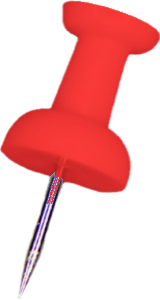
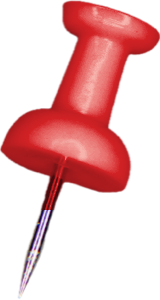
fix(style): Añadir breathes as a scrolling page; the red pin keeps its shading; recuerdos are a red circled count
- The add page scrolls as a whole with more room between sections and a taller map; Publicar sticks to
  the bottom of the screen.
- The pin's head is recolored by its own lightness, edges included, so it keeps its gloss and no gray rim.
- On your profile, new recuerdos are their count circled in red pen on a print's corner, clear of the name.

Changed region(s): [[0.0, 0.0, 1.0, 0.72]]

diff --git a/frontend/app/profile/[username]/profile-view.tsx b/frontend/app/profile/[username]/profile-view.tsx
@@ -17,7 +17,6 @@ import { createClient } from '@/lib/supabase/client'
 import { toAnimita, TABLES } from '@/lib/animitas'
 import type { Animita } from '@/types/animita'
 import { useNewRecuerdos } from '@/hooks/use-new-recuerdos'
-import { storyExcerpt } from '@/lib/story'
 import { isDemo } from '@/lib/demo/flag'
 import { uploadAvatar } from '@/lib/photos'
 
@@ -143,22 +142,21 @@ export function ProfileView({ profile }: { profile: ProfileData }) {
             {[1, 2, 3].map(i => <DevelopingPhoto key={i} />)}
           </div>
         ) : animitas.length > 0 ? (
-          <div className="grid grid-cols-2 gap-x-6 gap-y-12 sm:grid-cols-3">
+          <div className="grid grid-cols-2 gap-x-6 gap-y-8 sm:grid-cols-3">
             {animitas.map(a => {
               const left = isOwnProfile ? recuerdos.filter(r => r.slug === a.slug) : []
               return (
                 <div key={a.id} className="relative">
                   <AnimitaCard site={a} />
-                  {/* The newest recuerdo left here, as a slip tucked under the print's corner. */}
-                  {left[0] && (
+                  {/* New recuerdos here: their count circled in red pen on the print's corner, out of the way
+                      of the name. */}
+                  {left.length > 0 && (
                     <Link
                       href={left[0].href}
-                      className="paper-slip absolute -right-3 -bottom-4 z-10 flex w-4/5 rotate-3 flex-col gap-0.5 px-3 py-2 outline-none transition-[rotate] duration-200 hover:rotate-0 focus-visible:ring-[3px] focus-visible:ring-ring/50 motion-reduce:transition-none"
+                      aria-label={left.length === 1 ? `Un recuerdo nuevo en ${a.title}` : `${left.length} recuerdos nuevos en ${a.title}`}
+                      className="pen-red-tone pen-redraw absolute -top-4 -right-4 z-10 rounded-full outline-none focus-visible:ring-[3px] focus-visible:ring-ring/50"
                     >
-                      <span className="text-pretty text-xs text-text-strong">“{storyExcerpt(left[0].text, 48).text}”</span>
-                      <span className="text-xs text-text-weak">
-                        {left[0].who}{left.length > 1 ? ` y ${left.length - 1} más` : ''}
-                      </span>
+                      <PenLoop className="size-11 text-xl leading-none">{left.length}</PenLoop>
                     </Link>
                   )}
                 </div>

diff --git a/frontend/components/forms/add-form.tsx b/frontend/components/forms/add-form.tsx
@@ -149,7 +149,7 @@ export function AddForm({ onCancel }: AddFormProps) {
   const errorId = (field: Field) => `${ids}-${field}-error`
 
   return (
-    <div className="flex h-full w-full flex-col">
+    <div className="flex min-h-svh w-full flex-col md:min-h-0">
       {/* The way back is the same curve sign as on an animita's page, so there's no Cancelar to read. */}
       <div className="flex shrink-0 items-center gap-4 px-4 py-3">
         <button
@@ -165,8 +165,8 @@ export function AddForm({ onCancel }: AddFormProps) {
         <CutoutText text="añadir" height={30} arc={20} />
       </div>
 
-      <div className="min-h-0 flex-1 overflow-y-auto">
-        <div className="space-y-8 px-5 pt-2 pb-10">
+      <div className="flex-1">
+        <div className="space-y-12 px-5 pt-4 pb-16">
           <section ref={el => { sectionRefs.current.photos = el }} aria-labelledby={`${ids}-photos`} className="space-y-2">
             <h2 id={`${ids}-photos`} className="text-sm text-text">Fotos</h2>
             <ul className="grid grid-cols-3 gap-3">
@@ -280,7 +280,7 @@ export function AddForm({ onCancel }: AddFormProps) {
       )}
 
       {/* Floats at the bottom over a paper fade. While a photo is lifted, the trash takes its place. */}
-      <div className="relative shrink-0 px-5 pt-2 pb-safe before:pointer-events-none before:absolute before:inset-x-0 before:-top-10 before:h-10 before:bg-linear-to-t before:from-background before:to-transparent">
+      <div className="sticky bottom-0 z-20 shrink-0 bg-background px-5 pt-2 pb-safe before:pointer-events-none before:absolute before:inset-x-0 before:-top-10 before:h-10 before:bg-linear-to-t before:from-background before:to-transparent">
         <div className="flex min-h-28 items-end justify-center pb-5">
           {drag ? (
             <div ref={trashRef} className="flex flex-col items-center gap-1">

diff --git a/frontend/app/add/page.tsx b/frontend/app/add/page.tsx
@@ -8,10 +8,9 @@ export const metadata: Metadata = {
 
 export default function AddPage() {
   return (
-    <div className="flex h-svh w-full justify-center md:items-center md:p-6">
-      <div className="flex h-full w-full max-w-lg flex-col overflow-hidden md:h-4/5">
-        <AddForm />
-      </div>
+    // The whole page scrolls, with room around the form; Publicar stays at the bottom of the screen.
+    <div className="mx-auto min-h-svh w-full max-w-xl md:pt-10">
+      <AddForm />
     </div>
   )
 }

diff --git a/frontend/app/globals.css b/frontend/app/globals.css
@@ -446,6 +446,8 @@
 }
 .pen-bleed { color: var(--color-pen); filter: drop-shadow(0 0 0.8px color-mix(in oklab, var(--color-pen) 70%, transparent)) blur(0.25px); }
 
+/* Red ballpoint for what's new; pen marks inside take its ink. */
+.pen-red-tone { --color-pen: var(--color-pen-red); }
 .pen-red { color: var(--color-pen-red); filter: drop-shadow(0 0 0.8px color-mix(in oklab, var(--color-pen-red) 70%, transparent)) blur(0.25px); }
 
 /* Reaching for a pen mark draws it again, stroke by stroke. */

diff --git a/frontend/components/forms/location-picker.tsx b/frontend/components/forms/location-picker.tsx
@@ -101,7 +101,7 @@ export function LocationPicker({ value, onChange, invalid, describedBy }: Locati
       <div
         data-vaul-no-drag
         className={cn(
-          "print-frame h-56 p-1.5 touch-none",
+          "print-frame h-64 p-1.5 touch-none md:h-80",
           invalid && "ring-[3px] ring-destructive/30"
         )}
       >
